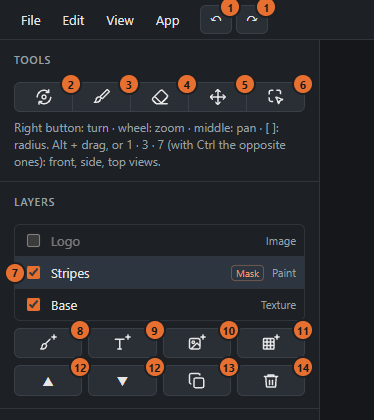
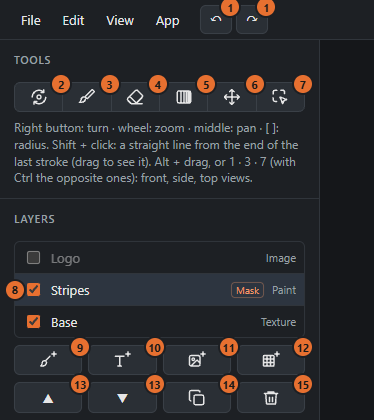
Docs for 0.4.0

diff --git a/CHANGELOG.it.md b/CHANGELOG.it.md
@@ -1,5 +1,17 @@
 # Novità
 
+## [0.4.0] - 2026-10-17
+
+Linee dritte e sfumature.
+
+### Novità
+- Strumento **Sfumatura** (G): trascina sull'auto da dove comincia a dove finisce, e il livello di pittura
+  selezionato si riempie dal colore **Da** al colore **A**, o **Fino a trasparente**. **Lineare** o **Radiale**, con
+  la sua **Opacità** e la **Simmetria sinistra/destra**; mentre trascini la vedi sull'auto. Sulla maschera del
+  livello, fa sfumare via il livello.
+- Linee dritte: col pennello o la gomma, **Maiusc + clic** traccia una linea dritta dalla fine dell'ultimo tratto;
+  tieni premuto per vedere la linea mentre la sposti.
+
 ## [0.3.0] - 2026-10-17
 
 Pennelli pronti, tavolette grafiche e uno schermo più ordinato.

diff --git a/CHANGELOG.md b/CHANGELOG.md
@@ -1,5 +1,17 @@
 # Changelog
 
+## [0.4.0] - 2026-10-17
+
+Straight lines and gradients.
+
+### New
+- **Gradient** tool (G): drag on the car from where it starts to where it ends, and the selected paint layer fills
+  from the **From** colour to the **To** colour, or **To transparent**. **Linear** or **Radial**, with its own
+  **Opacity** and **Left/right symmetry**; it shows on the car while you drag. Painting the layer's mask, it makes
+  the layer fade out.
+- Straight lines: with the brush or the eraser, **Shift + click** draws a straight line from the end of the last
+  stroke; hold the button to see the line while you move it.
+
 ## [0.3.0] - 2026-10-17
 
 Ready-made brushes, drawing tablets, and a tidier screen.
